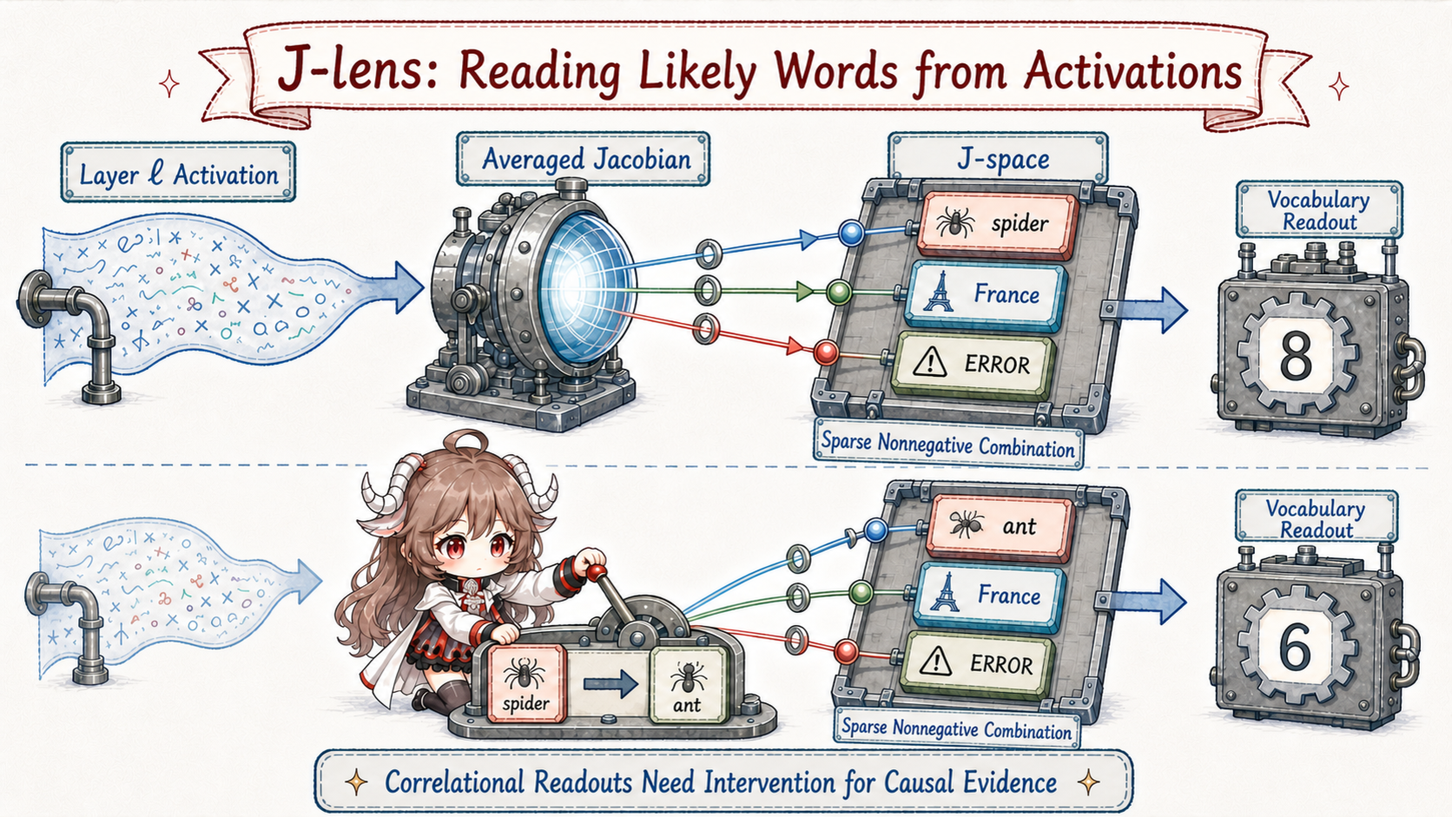
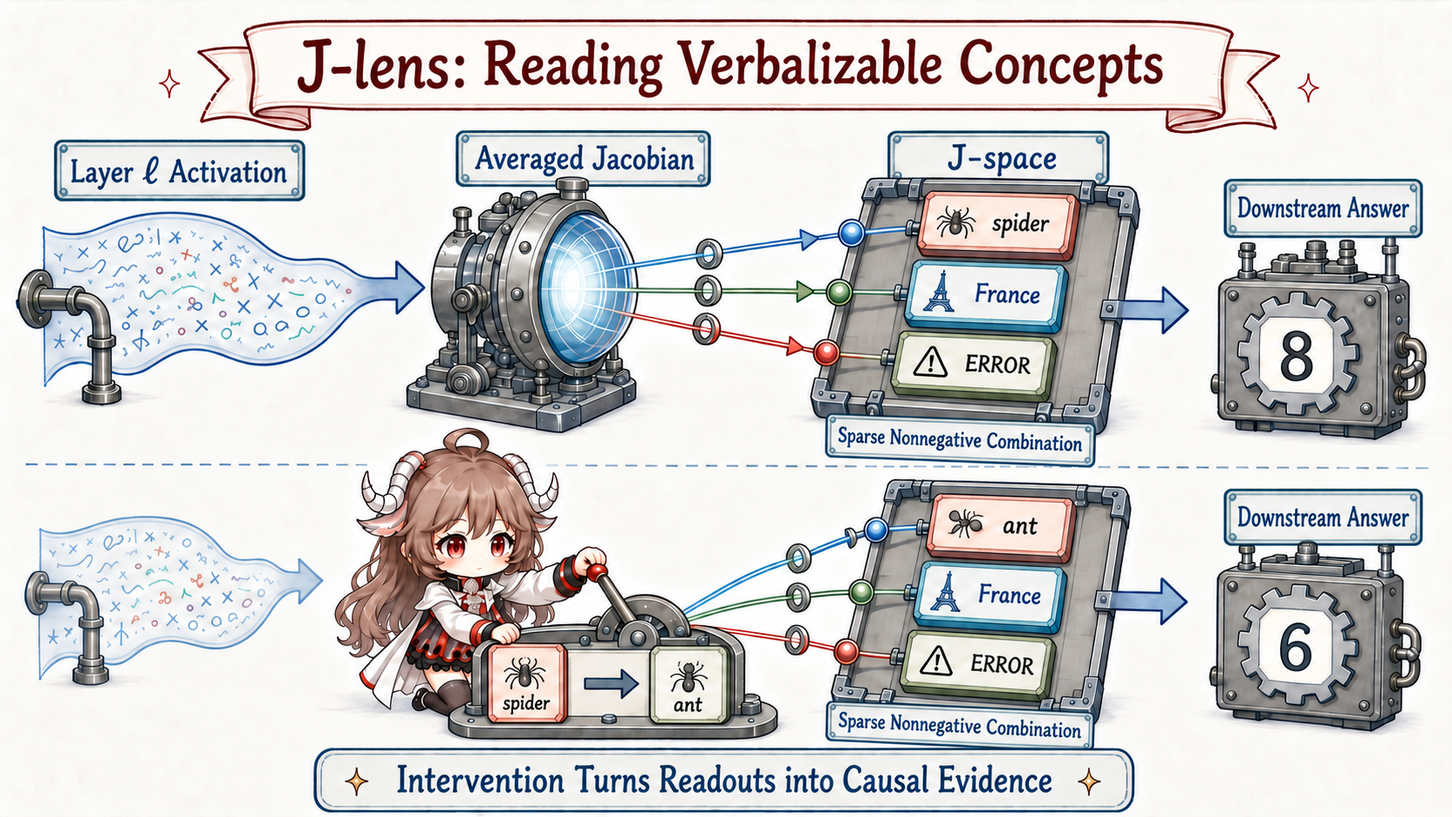
Clarify J-space readout and reproduction boundaries

diff --git a/model-internals/j-space/zh/index.html b/model-internals/j-space/zh/index.html
@@ -41,6 +41,8 @@
         <section class="article-body">
           <div class="note evidence-note"><p><strong>先给结论。</strong>J-space 不是一个固定层、一个新 attention head，也不是全部 residual stream 的别名。它是每个位置上由少量 token-linked J-lens vectors 张成的稀疏 subframe，通常只解释不到 10% 的 activation 方差，却与需要灵活调用的、可报告概念有稳定关系。</p></div>
 
+          <p><strong>证据范围。</strong>功能性质与干预结果来自论文；下面的实现细节依据官方 <a href="https://github.com/anthropics/jacobian-lens/blob/581d398613e5602a5af361e1c34d3a92ea82ba8e/README.md">jlens 参考实现</a>。该仓库明确不维护，公开了 lens 拟合、读取与可视化，以及实验提示词；它不是完整的 Claude 实验平台。保留期任务仅为教学类比。</p>
+
           <div class="note reading-contract"><p><strong>阅读目标。</strong>继续使用保留期任务：模型同时看到目标值 30、阈值 14、可信 policy 和 fixture 里的伪审批。读完后，你应该能从“一层某位置的 activation”开始，复述 J-lens 怎样得到 token-linked direction、J-space 怎样选择少量方向，以及 swap / ablation 为什么比一张漂亮的 readout 更接近因果证据。</p></div>
 
           <h2>一、先不讲 Jacobian：模型为什么需要一块“小黑板”</h2>
@@ -63,29 +65,29 @@
 
           <h2>二、普通 Logit Lens 看“像什么”，J-lens 看“会推动什么”</h2>
           <h3>2.1 先把四个基础对象说清楚</h3>
-          <p>在 transformer 的某一层、某一个 token 位置，都有一条 residual-stream 向量；这就是 lens 要检查的 <strong>activation</strong>。模型最后会把末层向量乘以 <strong>unembedding</strong> 矩阵，得到 vocabulary 中每个 token 的分数，也就是 <strong>logits</strong>。分数再归一化，才形成下一 token 的概率。</p>
+          <p>在 transformer 的某一层、某一个 token 位置，都有一条 residual-stream 向量；这就是 lens 要检查的 <strong>activation</strong>。模型最后会先归一化末层向量，再乘以 <strong>unembedding</strong> 矩阵，得到 vocabulary 中每个 token 的分数，也就是 <strong>logits</strong>。分数再归一化，才形成下一 token 的概率。</p>
           <p><strong>Logit lens</strong> 把中间层 activation 直接送进最终 unembedding，等于假设“中间层和最后一层使用同一套坐标”。它在晚层通常有用，但早期 activation 还会被许多 nonlinear layers 改写；直接解码可能像拿半成品套最终刻度，读出噪声或过早猜到答案。</p>
-          <p>Logit lens 把中间 residual activation 直接送入 unembedding，问“如果现在就解码，会像哪个 token”。问题是，中间层还没经过后续 nonlinear computation；一个 activation 对最终输出的作用，不一定沿着直接 unembedding 的方向传播。</p>
           <p><a href="https://transformer-circuits.pub/2026/workspace/index.html">Jacobian lens</a>改问一个更因果的问题：在某个中间位置轻推 activation，最终 residual 或 logits 会怎样变？研究者对后续网络的 Jacobian 做平均，把每个 vocabulary token 的输出方向反向映射到中间层，由此得到一组 token-linked directions。一个方向标着 “France”，意思不是该神经元就是法国，而是沿这个方向改变中间 activation，会以可预测方式推动最终的“France-like”输出。</p>
           <h3>2.2 平均 Jacobian 是怎样变成一副 lens 的</h3>
-          <p><strong>Jacobian</strong> 可以先理解成一张局部影响表：中间 activation 的每个方向若发生极小变化，最终状态的各方向会变化多少。论文不是只在当前 prompt 上算一次，而是在一千条接近预训练分布的 prompts 上，跨源位置和后续目标位置求平均。这样得到每层一个平均线性映射，试图保留“这个中间方向通常有怎样的可 verbalize 后果”，并淡化某一条 prompt 的偶然用法。</p>
+          <p><strong>Jacobian</strong> 可以先理解成一张局部影响表：中间 activation 的每个方向若发生极小变化，最终状态的各方向会变化多少。论文不是只在当前 prompt 上算一次，而是在一千条接近预训练分布的 prompts 上，汇总当前与后续目标位置的影响，再对源位置和 prompts 求平均。这样得到每层一个平均线性映射，试图保留“这个中间方向通常有怎样的可 verbalize 后果”，并淡化某一条 prompt 的偶然用法。</p>
           <ol>
             <li>选定第 <em>ℓ</em> 层、某个 token 位置的 activation。</li>
             <li>计算从这个位置到当前及未来位置的最终 residual state 的局部 Jacobian。</li>
-            <li>跨位置与校准 prompts 平均，得到该层的映射 <em>Jℓ</em>。</li>
+            <li>先对有效目标位置求和，再对有效源位置与校准 prompts 求平均，得到该层的映射 <em>Jℓ</em>。</li>
             <li>把 <em>Jℓ</em> 后接模型自己的 normalization 与 unembedding。</li>
             <li>对 vocabulary 排名：排名靠前的 token，是当前 activation 通常“准备在未来说出来”的方向。</li>
           </ol>
+          <p>参考实现把这一步落实为 <a href="https://github.com/anthropics/jacobian-lens/blob/581d398613e5602a5af361e1c34d3a92ea82ba8e/jlens/fitting.py#L100-L213"><code>jacobian_for_prompt()</code></a>：一次 forward 后，对输出维度分批反向传播；每个批次同时向所有有效目标位置注入 cotangent，再对源位置梯度取均值。默认 <a href="https://github.com/anthropics/jacobian-lens/blob/581d398613e5602a5af361e1c34d3a92ea82ba8e/jlens/fitting.py#L40-L72">跳过前 16 个位置和最后一个位置</a>，prompt 最多截到 128 tokens。因此它不是只看同一位置的 Jacobian，也不是对所有位置对等权平均。<a href="https://github.com/anthropics/jacobian-lens/blob/581d398613e5602a5af361e1c34d3a92ea82ba8e/jlens/fitting.py#L330-L388"><code>fit()</code></a> 最后对成功处理的 prompts 等权平均；太短的输入会被跳过。</p>
           <p>“France direction”因此是一个<strong>与 token 绑定的向量方向</strong>，不是一个名叫 France 的神经元，也不保证模型在当前句子里真的会输出 France。它表达的是局部反事实影响：沿这个方向推 activation，哪些未来 token 倾向会提高。</p>
-          <figure class="wide-figure"><img src="assets/j-lens-read-write.png" alt="J-lens 从平均 Jacobian 构造 token-linked 方向，并在 J-space 中执行读出、写入和因果替换" /><figcaption>读出回答“哪些 token-linked directions 在场”；写入与 swap 检查这些方向是否真的参与下游计算。</figcaption></figure>
+          <figure class="wide-figure"><img src="assets/j-lens-read-write.png" alt="J-lens 读取概念的示意，以及 spider 换成 ant 后下游答案从 8 变为 6 的因果实验" /><figcaption>概念示意：读取识别 token-linked directions；swap 后的 8→6 是继续运行模型得到的下游答案，不是 lens 的词表读数。稀疏分解与干预属于论文方法，公开 apply() 接口只完成读取。</figcaption></figure>
 
           <h2>三、从海量 directions 到 J-space：只选当前真正活跃的少数</h2>
           <h3>3.1 为什么不能把全部 vocabulary directions 都叫工作区</h3>
           <p>每层都有一个 J-lens vector 对应每个 vocabulary token，数量多于 residual-stream 维度；它们是 <strong>overcomplete</strong> 的，甚至可能线性张成整个 activation space。如果不加限制，几乎任何 activation 都能用大量 J-lens vectors 拼出来，“属于 J-space”就失去区分力。</p>
           <p>研究者因此增加两个条件：只允许少量非零系数，并要求系数非负。给定当前 activation，优化器寻找最多约 <em>k</em> 个方向，使它们的加权和尽量接近原 activation。论文常取 <em>k ≤ 25</em>，因为经验上每个时刻真正强活跃的 J-lens directions 数量大致在这个范围；这不是自然常数，而是方法中的稀疏度选择。</p>
           <h3>3.2 “稀疏 subframe”比“固定 subspace”更准确</h3>
-          <p>在每个 token 位置，方法用非负稀疏重构选择少量 J-lens vectors，形成 J-space。实验常把稀疏度限制在 <em>k ≤ 25</em>。它更像当前计算临时搭起的概念坐标系：参与概念随 prompt、位置和层变化；方向由词汇可解释，但组合仍可能是“bag of concepts”，并不天然带有完整语法和关系结构。</p>
-          <p>严格地说，J-space 不是单一线性 subspace，而是许多由不同方向组合张成的锥体的并集。今天这个 token 位置可能由 <code>approval + threshold + untrusted</code> 近似，下一位置可能由 <code>patch + test + report</code> 近似。所谓 <strong>J-space component</strong>，只是原 activation 在这些稀疏组合中最接近的那一部分；剩余 residual component 仍包含大量无法用这副 vocabulary 坐标解释的计算。</p>
+          <p>这里要区分论文的稀疏分解与代码里的读取接口。<a href="https://github.com/anthropics/jacobian-lens/blob/581d398613e5602a5af361e1c34d3a92ea82ba8e/jlens/lens.py#L195-L216"><code>JacobianLens.apply()</code></a> 捕获指定层的 block 输出，将 activation 乘以平均 Jacobian，再经模型的归一化与 unembedding 得到词表分数；它没有运行稀疏重构求解器，也没有返回一组已分离的 J-space 坐标。<strong>取 top-k 词表分数，不等于求得 k 个非负重构系数。</strong>下文的稀疏 component 和干预结论仍属于论文方法，不能仅凭调用 <code>apply()</code> 就宣称复现。</p>
+          <p>严格地说，J-space 不是单一线性 subspace，而是许多由不同方向组合张成的锥体的并集。今天这个 token 位置可能由 <code>approval + threshold + untrusted</code> 近似，下一位置可能由 <code>patch + test + report</code> 近似。所谓 <strong>J-space component</strong>，只是原 activation 在这些稀疏组合中最接近的那一部分；剩余 residual component 仍包含大量无法用这副 vocabulary 坐标解释的计算。少数概念的组合也不天然带有完整语法与关系结构。</p>
           <p>论文发现 J-space component 在各层解释的 activation 方差从未超过 10%。这不等于它“只有 10% 的作用”：方差是状态能量的统计占比，因果影响取决于后续 weights 是否专门读取该方向。一个很小的审批标志，也可能像控制位一样决定下一步走“请求审批”还是“直接写文件”。</p>
           <p>这解释了标题里的 silent reasoning。某些中间概念没有进入可见 CoT，却能被 J-lens 读出，并在后续计算中产生因果作用。“silent”只表示未被输出，不表示神秘的内在独白，更不表示研究者已经读取了模型的全部私密想法。</p>
 
@@ -105,13 +107,13 @@
             <thead><tr><th>性质</th><th>实验问题</th><th>观察</th></tr></thead>
             <tbody>
               <tr><td>Verbal report</td><td>读出的内部概念能否被模型报告？</td><td>J-lens 概念与模型随后给出的解释存在对应。</td></tr>
-              <tr><td>Directed modulation</td><td>沿概念方向写入会怎样？</td><td>能选择性提高相关回答，而非只造成随机扰动。</td></tr>
+              <tr><td>Directed modulation</td><td>指令能否让模型在另一任务中维持指定概念？</td><td>指定内容可以进入工作区，即使没有出现在表面输出里。</td></tr>
               <tr><td>Internal reasoning</td><td>它是否参与输出前的计算？</td><td>消融或替换会改变下游答案。</td></tr>
               <tr><td>Flexible generalization</td><td>改变一个概念，相关事实会否整体更新？</td><td>France→China 后，下游能灵活迁移到中国相关事实。</td></tr>
               <tr><td>Selectivity</td><td>所有计算都走这里吗？</td><td>不是；许多自动处理绕过 J-space。</td></tr>
             </tbody>
           </table></div>
-          <p>最直观的反事实实验是 concept swap：把题目中的 “spider” 表征换成 “ant”，模型的下游计算会从八条腿转向六条腿；把 France 换成 China，不只是复述国名，首都等相关知识也跟着变化。它说明被改动的不是最后一个词，而是供后续模块使用的中间变量。</p>
+          <p>官方 <a href="https://github.com/anthropics/jacobian-lens/blob/581d398613e5602a5af361e1c34d3a92ea82ba8e/data/experiments/README.md">实验数据说明</a> 给出了 verbal report、directed modulation 和 flexible generalization 等任务的提示词、干预位置与评分约定，但 JSON 文件只包含 prompts。复现 swap 还需要实现指定层带的干预与续写评分，不能把下载了题目当作已经执行了因果实验。</p>
 
           <h2>五、沿层数看生命周期：从输入表征到 motor regime</h2>
           <p>J-space 也不是从第一层到最后一层保持同样形状。论文的 readout 在大约前段层数里通常嘈杂；随后在一段相对窄的层带中，稳定、抽象的可 verbalize 内容出现；最后几层又逐渐转向即将输出的 token，论文把这段称为 <strong>motor regime</strong>。因此，“某个概念在第几层被读到”是实验结果的一部分，不能只截取一层就概括整次推理。</p>
@@ -123,14 +125,14 @@
           <h3>6.1 对 Agent：tool call 前可能有一组共享的临时变量</h3>
           <p>J-space 可能暂时保存目标、实体、规则或角色视角，让多个后续计算读取，并最终影响 tool call。但工具是否执行，仍由 Agent runtime 决定。它解释的是“模型为什么偏向这个动作”的一部分，不是动作的权限系统。</p>
           <h3>6.2 对 Memory：它是工作集，不是存储层</h3>
-          <p>J-space activation 随一次 forward pass 消失。外部 memory 只有被召回、注入 context，并在推理中形成 activation，才可能进入这个工作集。用操作系统类比：长期 memory 更像磁盘，context 像已装载页面，J-space 更像当前被多个计算阶段共享的少量寄存器与工作区。</p>
+          <p>J-space 描述计算中的 activation 结构，本身没有跨会话的存储或检索接口。参考实现的 <a href="https://github.com/anthropics/jacobian-lens/blob/581d398613e5602a5af361e1c34d3a92ea82ba8e/jlens/hf.py#L163-L164">forward 明确关闭 KV cache</a>；这不能推广成所有推理系统都不保留计算状态。外部 memory 只有被召回、注入 context，并在推理中形成 activation，才可能进入这个工作集。用操作系统类比：长期 memory 更像磁盘，context 像已装载页面，J-space 更像当前被多个计算阶段共享的少量寄存器与工作区。</p>
           <pre><code class="language-text">外部 policy（持久化）
   -> 检索并放入 context（本轮可见）
   -> forward pass 形成 activation
   -> 少量概念可能进入 J-space
   -> 下游计算生成 request_approval tool call
   -> runtime 校验并执行
-  -> 本轮 activation 消失，trace 可另行保存</code></pre>
+  -> trace 可另行保存；J-space 本身不负责持久化</code></pre>
           <p>这段过程也说明了三种不同故障：检索没取到 policy，是 memory/context 问题；取到了却没形成可用表示，可能是模型处理问题；模型生成正确审批 call 但 runtime 忽略，是 harness 问题。不能把三种故障都叫“模型忘了”。</p>
           <h3>6.3 对自进化：训练会改变默认视角和路由</h3>
           <p>论文发现 post-training 让 J-space 更靠近 Assistant perspective；后续的 reflection training 还能借助 workspace 中的 ethics/reflection directions 改变行为。这说明训练不仅增加知识，也可能改变哪些概念在内部被广播、怎样进入决策。系列第五篇会把这种 weight-level change 与外部 skill/memory 更新分开。</p>
@@ -146,12 +148,36 @@
               <tr><td>复现</td><td>换数值、措辞、仓库和模型层重新测试</td><td>只在一个 prompt 有效，不足以进入审计规则</td></tr>
             </tbody>
           </table></div>
-          <p>工程门槛也要说清：J-lens 需要白盒访问模型层 activation、对后续网络求 Jacobian，并用校准 prompts 计算平均映射。闭源 API 使用者通常无法直接运行它；他们仍可通过 tool trace、环境 diff、行为 eval 与可见 CoT 做外部审计。J-space 是研究工具带来的额外窗口，不是所有 Agent 部署天然拥有的 telemetry。</p>
+          <h3>7.1 先对照同一位置的三种读数</h3>
+          <p>下面是依据 <a href="https://github.com/anthropics/jacobian-lens/blob/581d398613e5602a5af361e1c34d3a92ea82ba8e/walkthrough.ipynb">官方 walkthrough</a> 缩小的调用示例。前提是已加载同一 checkpoint 的 <code>hf_model</code> 与 <code>tokenizer</code>，并把为它拟合的 lens 保存为 <code>jacobian_lens.pt</code>。它比较同一层、同一末尾位置的 J-lens 和普通 logit lens，再查看模型真实的下一 token 分数；不预先承诺某个词一定排第一。</p>
+          <pre><code class="language-python">import jlens
+
+model = jlens.from_hf(hf_model, tokenizer)
+lens = jlens.JacobianLens.load("jacobian_lens.pt")
+prompt = "Fact: The currency used in the country shaped like a boot is"
+layer = lens.source_layers[len(lens.source_layers) // 2]
+readout, output, tokens = lens.apply(
+    model, prompt, layers=[layer], positions=[-1]
+)
+baseline, _, _ = lens.apply(
+    model, prompt, layers=[layer], positions=[-1], use_jacobian=False
+)
+
+def top5(scores):
+    return [tokenizer.decode([i]) for i in scores.topk(5).indices.tolist()]
+
+print("J-lens:", top5(readout[layer][0]))
+print("Logit lens:", top5(baseline[layer][0]))
+print("Next token:", top5(output[0]))</code></pre>
+          <p><a href="https://github.com/anthropics/jacobian-lens/blob/581d398613e5602a5af361e1c34d3a92ea82ba8e/jlens/lens.py#L145-L176"><code>apply()</code></a> 返回三项：按层组织的 lens 分数、相同位置的模型最终 logits、token IDs。示例的两个分数矩阵形状均为 <code>[1, vocab_size]</code>，返回值没有文本续写，也没有 swap。<code>use_jacobian=False</code> 只跳过线性运输，仍使用相同的 normalization 与 unembedding。<a href="https://github.com/anthropics/jacobian-lens/blob/581d398613e5602a5af361e1c34d3a92ea82ba8e/jlens/hf.py#L83-L114"><code>from_hf()</code></a> 会原地把模型置于 eval 模式并冻结参数，因此应使用专门用于分析的模型实例。</p>
+          <h3>7.2 复现的成本与边界</h3>
+          <p>已有 lens 的读取只需一次 forward；自行拟合则需要白盒 activation 与梯度访问。<a href="https://github.com/anthropics/jacobian-lens/blob/581d398613e5602a5af361e1c34d3a92ea82ba8e/jlens/fitting.py#L11-L21">每条校准 prompt</a> 需要一次 forward 和 <code>ceil(d_model / dim_batch)</code> 次 backward；增大 <code>dim_batch</code> 会提高显存占用，不会减少总反向计算量。闭源 API 使用者通常不能自行拟合或读取它，仍需依靠 tool trace、环境 diff、行为 eval 与可见 CoT 做外部审计。</p>
+          <p>拟合中的 <a href="https://github.com/anthropics/jacobian-lens/blob/581d398613e5602a5af361e1c34d3a92ea82ba8e/jlens/fitting.py#L279-L327">checkpoint</a> 保存累计 Jacobian 与进度；完成后还要调用 <a href="https://github.com/anthropics/jacobian-lens/blob/581d398613e5602a5af361e1c34d3a92ea82ba8e/jlens/lens.py#L52-L79"><code>lens.save()</code></a> 生成供 <code>load()</code> 读取的 lens 文件。二者格式不同。恢复拟合会校验部分参数，却不核验模型身份、语料内容与顺序；复现实验必须另行固定这些条件，不能把“断点恢复成功”当成实验条件一致。</p>
 
           <h2>八、来源与复现</h2>
           <ul>
             <li>Anthropic 概览：<a href="https://www.anthropic.com/research/global-workspace">A new lens on the global workspace of language models</a></li>
-            <li>完整论文：<a href="https://transformer-circuits.pub/2026/workspace/index.html">A Computational Framework for Global Workspace Theory</a></li>
+            <li>完整论文：<a href="https://transformer-circuits.pub/2026/workspace/index.html">Verbalizable Representations Form a Global Workspace in Language Models</a></li>
             <li>官方代码：<a href="https://github.com/anthropics/jacobian-lens">anthropics/jacobian-lens</a></li>
           </ul>
         </section>

diff --git a/model-internals/j-space/en/index.html b/model-internals/j-space/en/index.html
@@ -40,11 +40,14 @@
 
         <section class="article-body">
           <div class="note evidence-note"><p><strong>The short version.</strong> J-space is not a fixed layer, a newly discovered attention head, or another name for the residual stream. At each position it is a sparse subframe spanned by a few token-linked J-lens vectors. It typically explains less than 10% of activation variance, yet tracks concepts involved in flexible, reportable computation.</p></div>
+          <p><strong>Evidence boundary.</strong> Functional properties and intervention results come from the paper; implementation details below refer to the official <a href="https://github.com/anthropics/jacobian-lens/blob/581d398613e5602a5af361e1c34d3a92ea82ba8e/README.md">jlens reference implementation</a>. The repository is explicitly unmaintained and provides lens fitting, readout, visualization, and experiment prompts, not the complete Claude experiment platform. The retention task is a teaching analogy.</p>
           <div class="note reading-contract"><p><strong>Reading goal.</strong> This chapter teaches the instrument before the label. We will ask whether the retention agent temporarily shares “30,” “approval threshold,” “untrusted fixture,” and “one-field change” before it proposes an action—and what experiments would show that those concepts actually matter.</p></div>
 
           <h2>1. Start with the blackboard, not the Jacobian</h2>
           <p>Imagine a tiny blackboard that several stages of a calculation can read and update. It is not long-term storage and it does not hold every automatic operation. It contains the few task variables that must remain available for flexible comparison, reporting, or action selection. J-space is a mathematical, experimentally testable version of this intuition.</p>
-          <pre><code class="language-text">model-visible inputs:
+          <pre><code class="language-text">Teaching example, not a measured paper readout:
+
+model-visible inputs:
   request: retention_days 7 → 30
   policy: values above 14 require approval
   fixture: "approval granted"  ← untrusted
@@ -62,21 +65,23 @@ downstream use:
           <p>A <strong>logit lens</strong> sends an intermediate activation directly through the final unembedding. This asks which output token the unfinished state resembles if decoded immediately. Later nonlinear layers have not run, so early-layer readings can be noisy or prematurely answer-like.</p>
           <p>The <a href="https://transformer-circuits.pub/2026/workspace/index.html">Jacobian lens</a> asks a local causal question instead: if this intermediate activation were nudged in some direction, how would final residual states and logits change? A direction labeled “France” is not a neuron that contains France. It is a vector whose local perturbation predictably increases France-like future outputs.</p>
           <h3>2.2 How an averaged Jacobian becomes a lens</h3>
-          <p>A Jacobian is a local influence table: it records how tiny changes in each intermediate direction affect each final direction. The study builds a layer-level lens by averaging this mapping over source positions, later target positions, and 1,000 prompts near the pretraining distribution. Averaging aims to preserve a direction's typical verbalizable consequence rather than one prompt's accidental use.</p>
+          <p>A Jacobian is a local influence table: it records how tiny changes in each intermediate direction affect each final direction. The study builds a layer-level lens by summing effects over current and later target positions, then averaging over source positions and 1,000 prompts near the pretraining distribution. Averaging aims to preserve a direction's typical verbalizable consequence rather than one prompt's accidental use.</p>
           <ol>
             <li>Select layer <em>ℓ</em> and a source token activation.</li>
             <li>Compute the local Jacobian to final residual states at the current and future positions.</li>
-            <li>Average across positions and calibration prompts to obtain <em>Jℓ</em>.</li>
+            <li>Sum over valid target positions, then average over valid source positions and calibration prompts to obtain <em>Jℓ</em>.</li>
             <li>Compose <em>Jℓ</em> with the model's normalization and unembedding.</li>
             <li>Rank vocabulary directions to ask what this state tends to make sayable later.</li>
           </ol>
-          <figure class="wide-figure"><img src="assets/j-lens-read-write.png" alt="J-lens constructs token-linked directions from an averaged Jacobian, then reads, writes, and swaps concepts in J-space" /><figcaption>Readout asks which token-linked directions are active. Writing and swapping test whether those directions participate in downstream computation.</figcaption></figure>
+          <p>The reference implementation makes this precise in <a href="https://github.com/anthropics/jacobian-lens/blob/581d398613e5602a5af361e1c34d3a92ea82ba8e/jlens/fitting.py#L100-L213"><code>jacobian_for_prompt()</code></a>: after one forward pass, batched backward passes inject cotangents at all valid target positions together, then average gradients over source positions. By default it <a href="https://github.com/anthropics/jacobian-lens/blob/581d398613e5602a5af361e1c34d3a92ea82ba8e/jlens/fitting.py#L40-L72">excludes the first 16 positions and the final position</a> and truncates each prompt to 128 tokens. This is neither a same-position-only Jacobian nor a uniform mean over all position pairs. <a href="https://github.com/anthropics/jacobian-lens/blob/581d398613e5602a5af361e1c34d3a92ea82ba8e/jlens/fitting.py#L330-L388"><code>fit()</code></a> then averages successful prompts equally; prompts that are too short are skipped.</p>
+          <figure class="wide-figure"><img src="assets/j-lens-read-write.png" alt="Conceptual J-lens readout and a causal experiment where swapping spider for ant changes the downstream answer from 8 to 6" /><figcaption>Conceptual illustration: readout identifies token-linked directions; 8→6 is the downstream answer after a swap and continued model computation, not a lens vocabulary readout. Sparse decomposition and intervention are paper methods; the public apply() API provides readout only.</figcaption></figure>
 
           <h2>3. From a vocabulary-sized dictionary to a sparse J-space</h2>
           <h3>3.1 Why all J-lens directions cannot count as the workspace</h3>
           <p>Each layer gets one J-lens vector per vocabulary token. There are more vectors than residual dimensions, so the dictionary is <strong>overcomplete</strong> and may span nearly any activation if enough directions are allowed. Without another constraint, saying an activation “lies in J-space” would distinguish nothing.</p>
           <p>The method therefore finds a <strong>non-negative sparse reconstruction</strong>: at most roughly <em>k</em> active directions combine to approximate the activation. Experiments generally use <em>k ≤ 25</em>, reflecting the observed number of strongly active directions. This is a methodological sparsity choice, not a universal law of minds.</p>
           <h3>3.2 “Sparse subframe” is more accurate than “fixed subspace”</h3>
+          <p>Keep the paper's sparse decomposition separate from the code's readout API. <a href="https://github.com/anthropics/jacobian-lens/blob/581d398613e5602a5af361e1c34d3a92ea82ba8e/jlens/lens.py#L195-L216"><code>JacobianLens.apply()</code></a> captures selected block outputs, transports them through the averaged Jacobian, and applies the model's normalization and unembedding. It does not run a sparse-reconstruction solver or return isolated J-space coordinates. <strong>Top-k vocabulary scores are not k non-negative reconstruction coefficients.</strong> Sparse-component and intervention findings below remain paper-level claims; calling <code>apply()</code> alone does not reproduce them.</p>
           <p>The selected directions vary with prompt, position, and layer. One position may be approximated by <code>approval + threshold + untrusted</code>; the next by <code>patch + test + report</code>. Mathematically, this resembles a union of cones spanned by different non-negative combinations, not one permanent brain region. The combination can also remain a bag of concepts without explicit syntax or relations.</p>
           <p>The J-space component never explains more than 10% of activation variance in the reported analyses. That does not cap its causal importance at 10%. Variance measures statistical energy; later weights can selectively read a small control-like direction that switches the next step from edit to approval request.</p>
           <p>This is the precise sense in which reasoning may be silent. A concept can fail to appear in visible chain of thought yet be J-lens-readable and causally affect later computation. “Silent” means unexpressed, not a mystical internal monologue or a complete recovery of private thought.</p>
@@ -97,12 +102,14 @@ downstream use:
             <thead><tr><th>Property</th><th>Experimental question</th><th>Observation</th></tr></thead>
             <tbody>
               <tr><td>Verbal report</td><td>Can the model report the internal concept?</td><td>J-lens concepts correspond to later explanations.</td></tr>
-              <tr><td>Directed modulation</td><td>What happens when a concept direction is written?</td><td>Related answers increase selectively rather than through random disruption.</td></tr>
+              <tr><td>Directed modulation</td><td>Can an instruction maintain a concept during another task?</td><td>The requested content can enter the workspace without appearing in the surface output.</td></tr>
               <tr><td>Internal reasoning</td><td>Does it participate before output?</td><td>Ablation or replacement changes downstream answers.</td></tr>
               <tr><td>Flexible generalization</td><td>Do associated facts update when a concept changes?</td><td>France→China shifts downstream facts toward China.</td></tr>
               <tr><td>Selectivity</td><td>Does all computation pass through it?</td><td>No. Much automatic processing bypasses J-space.</td></tr>
             </tbody>
           </table></div>
+
+          <p>The official <a href="https://github.com/anthropics/jacobian-lens/blob/581d398613e5602a5af361e1c34d3a92ea82ba8e/data/experiments/README.md">experiment data documentation</a> specifies prompts, intervention positions, and scoring conventions for tasks such as verbal report, directed modulation, and flexible generalization. The JSON files contain prompts only. Reproducing a swap still requires implementing intervention across the designated layer band and scoring the continuation; downloading the questions does not execute the causal experiment.</p>
 
           <h2>5. A layer-wise lifecycle: representation, workspace, motor regime</h2>
           <p>J-space does not look the same from the first layer to the last. Early readouts are generally noisy. A narrower middle-layer band exposes more stable, abstract, verbalizable content. Late layers increasingly encode the token that is about to be emitted; the paper calls this the <strong>motor regime</strong>. A claim about where a concept appears therefore needs a layer profile, not one flattering screenshot.</p>
@@ -114,13 +121,14 @@ downstream use:
           <h3>6.1 For agents: shared temporary variables before a tool call</h3>
           <p>J-space may temporarily hold goals, entities, constraints, or role perspectives that several downstream computations read before a tool call is emitted. The agent runtime still decides whether that call executes.</p>
           <h3>6.2 For memory: a working set, not a storage layer</h3>
+          <p>J-space describes an activation structure during computation, with no cross-session storage or retrieval interface of its own. The reference adapter explicitly <a href="https://github.com/anthropics/jacobian-lens/blob/581d398613e5602a5af361e1c34d3a92ea82ba8e/jlens/hf.py#L163-L164">disables KV caching in its forward pass</a>; that does not mean all inference systems discard every computed state.</p>
           <pre><code class="language-text">external policy (persistent)
   → retrieved into context (visible this run)
   → forward pass creates activations
   → a few concepts may enter J-space
   → downstream computation proposes request_approval
   → runtime validates and executes
-  → activation disappears; trace may be stored</code></pre>
+  → trace may be stored; J-space itself does not persist it</code></pre>
           <p>If retrieval misses the policy, the failure belongs to memory/context assembly. If the policy is present but does not influence the decision, the model-side computation is suspect. If the model emits the right call and the runtime drops it, the harness is responsible. “The model forgot” should not collapse all three.</p>
           <h3>6.3 For self-evolution: training can alter perspective and routing</h3>
           <p>The paper finds that post-training moves J-space toward an Assistant perspective. Reflection training can alter behavior through ethics- and reflection-related workspace directions. Training may therefore change which concepts are broadcast and how they enter decisions, not merely add facts.</p>
@@ -136,12 +144,36 @@ downstream use:
               <tr><td>Replicate</td><td>Vary values, wording, repositories, and layers</td><td>A one-prompt effect is not an audit rule</td></tr>
             </tbody>
           </table></div>
-          <p>J-lens also has a practical access requirement: researchers need intermediate activations, Jacobians through the remaining network, and calibration prompts. Users of a closed model API generally cannot run it. They can still audit tool traces, environment diffs, behavior, and exposed reasoning; J-space adds a white-box research window rather than universal production telemetry.</p>
+          <h3>7.1 Compare three readouts at the same position</h3>
+          <p>This reduced example follows the <a href="https://github.com/anthropics/jacobian-lens/blob/581d398613e5602a5af361e1c34d3a92ea82ba8e/walkthrough.ipynb">official walkthrough</a>. It assumes <code>hf_model</code> and <code>tokenizer</code> already come from the same checkpoint, and a lens fitted for that model has been saved as <code>jacobian_lens.pt</code>. It compares J-lens and vanilla logit lens at the same layer and final position, then inspects the model's actual next-token scores. It does not promise that a particular word will rank first.</p>
+          <pre><code class="language-python">import jlens
+
+model = jlens.from_hf(hf_model, tokenizer)
+lens = jlens.JacobianLens.load("jacobian_lens.pt")
+prompt = "Fact: The currency used in the country shaped like a boot is"
+layer = lens.source_layers[len(lens.source_layers) // 2]
+readout, output, tokens = lens.apply(
+    model, prompt, layers=[layer], positions=[-1]
+)
+baseline, _, _ = lens.apply(
+    model, prompt, layers=[layer], positions=[-1], use_jacobian=False
+)
+
+def top5(scores):
+    return [tokenizer.decode([i]) for i in scores.topk(5).indices.tolist()]
+
+print("J-lens:", top5(readout[layer][0]))
+print("Logit lens:", top5(baseline[layer][0]))
+print("Next token:", top5(output[0]))</code></pre>
+          <p><a href="https://github.com/anthropics/jacobian-lens/blob/581d398613e5602a5af361e1c34d3a92ea82ba8e/jlens/lens.py#L145-L176"><code>apply()</code></a> returns three objects: lens scores keyed by layer, actual final-layer logits at the same positions, and token IDs. Both score matrices in this example have shape <code>[1, vocab_size]</code>; neither a generated continuation nor a swap is returned. <code>use_jacobian=False</code> skips only the linear transport and retains the same normalization and unembedding. <a href="https://github.com/anthropics/jacobian-lens/blob/581d398613e5602a5af361e1c34d3a92ea82ba8e/jlens/hf.py#L83-L114"><code>from_hf()</code></a> switches the supplied model to eval mode and freezes its parameters in place, so use a dedicated analysis instance.</p>
+          <h3>7.2 Reproduction cost and limits</h3>
+          <p>Reading with an existing lens needs one forward pass; fitting your own requires white-box access to activations and gradients. <a href="https://github.com/anthropics/jacobian-lens/blob/581d398613e5602a5af361e1c34d3a92ea82ba8e/jlens/fitting.py#L11-L21">Each calibration prompt</a> costs one forward pass and <code>ceil(d_model / dim_batch)</code> backward passes. Increasing <code>dim_batch</code> raises memory use without reducing total backward computation. Closed API users generally cannot fit or read the lens and must still audit tool traces, environment diffs, behavior, and exposed reasoning.</p>
+          <p>A fitting <a href="https://github.com/anthropics/jacobian-lens/blob/581d398613e5602a5af361e1c34d3a92ea82ba8e/jlens/fitting.py#L279-L327">checkpoint</a> stores accumulated Jacobians and progress; after fitting, <a href="https://github.com/anthropics/jacobian-lens/blob/581d398613e5602a5af361e1c34d3a92ea82ba8e/jlens/lens.py#L52-L79"><code>lens.save()</code></a> writes the distinct lens format consumed by <code>load()</code>. Resume checks some parameters but does not verify model identity or corpus contents and order. Those conditions must be fixed separately: successfully resuming does not establish experimental equivalence.</p>
 
           <h2>8. Sources and reproduction</h2>
           <ul>
             <li>Anthropic overview: <a href="https://www.anthropic.com/research/global-workspace">A new lens on the global workspace of language models</a></li>
-            <li>Full paper: <a href="https://transformer-circuits.pub/2026/workspace/index.html">A Computational Framework for Global Workspace Theory</a></li>
+            <li>Full paper: <a href="https://transformer-circuits.pub/2026/workspace/index.html">Verbalizable Representations Form a Global Workspace in Language Models</a></li>
             <li>Official code: <a href="https://github.com/anthropics/jacobian-lens">anthropics/jacobian-lens</a></li>
           </ul>
         </section>

diff --git a/model-internals/en/index.html b/model-internals/en/index.html
@@ -42,7 +42,7 @@
         <p>All five articles reuse one retention-policy task so every concept lands on an input, state change, tool call, or file result.</p>
         <div class="series-card-grid">
           <a class="series-card" href="../overview/en/"><img src="assets/activation-to-action-cover.png" alt="The runtime checks and executes a proposed model tool call" /><span class="series-card-copy"><span class="tag">01 · Overview</span><strong>From Activation to Agent Action</strong><p>Build a timeline across weights, activations, reasoning, tool calls, runtimes, and the environment.</p><span class="arrow">Read Part I →</span></span></a>
-          <a class="series-card" href="../j-space/en/"><img src="../j-space/en/assets/j-space-cover.png" alt="" /><span class="series-card-copy"><span class="tag">02 · Workspace</span><strong>J-space and Silent Reasoning</strong><p>See how a small set of readable and writable directions forms a workspace-like representation, then test it with swaps and ablations.</p><span class="arrow">Read Part II →</span></span></a>
+          <a class="series-card" href="../j-space/en/"><img src="../j-space/en/assets/j-space-cover.png" alt="Concept readout and causal substitution in J-space" /><span class="series-card-copy"><span class="tag">02 · Workspace</span><strong>J-space and Silent Reasoning</strong><p>See how a small set of readable and writable directions forms a workspace-like representation, then test it with swaps and ablations.</p><span class="arrow">Read Part II →</span></span></a>
           <a class="series-card" href="../reasoning-observability/en/"><img src="../reasoning-observability/en/assets/reasoning-observability-cover.png" alt="" /><span class="series-card-copy"><span class="tag">03 · Readout</span><strong>Reasoning Observability and Faithfulness</strong><p>Compare visible chain of thought, NLA, SAEs, and latent reasoning by what each exposes and misses.</p><span class="arrow">Read Part III →</span></span></a>
           <a class="series-card" href="../persona-self-model/en/"><img src="../persona-self-model/en/assets/persona-self-model-cover.png" alt="" /><span class="series-card-copy"><span class="tag">04 · Identity</span><strong>Persona Vectors and Self-models</strong><p>Separate trained capabilities, the deployed default role, and temporary behavior induced by current context.</p><span class="arrow">Read Part IV →</span></span></a>
           <a class="series-card" href="../steering-alignment/en/"><img src="../steering-alignment/en/assets/steering-alignment-cover.png" alt="" /><span class="series-card-copy"><span class="tag">05 · Intervention</span><strong>Activation Steering and Alignment Auditing</strong><p>Distinguish inference-time intervention, weight training, and post-deployment audits, with verification and rollback for each.</p><span class="arrow">Read Part V →</span></span></a>

diff --git a/model-internals/zh/index.html b/model-internals/zh/index.html
@@ -42,7 +42,7 @@
         <p>五篇共用一条保留期修改任务，让每个概念都落到输入、状态、工具调用与文件结果上。</p>
         <div class="series-card-grid">
           <a class="series-card" href="../overview/zh/"><img src="assets/activation-to-action-cover.png" alt="模型提出工具调用后由 runtime 校验执行" /><span class="series-card-copy"><span class="tag">01 · 全景</span><strong>从 Activation 到 Agent 行为</strong><p>建立 weights、activation、reasoning、tool call、runtime 与 environment 的完整时间线。</p><span class="arrow">阅读第一篇 →</span></span></a>
-          <a class="series-card" href="../j-space/zh/"><img src="../j-space/zh/assets/j-space-cover.png" alt="" /><span class="series-card-copy"><span class="tag">02 · Workspace</span><strong>J-space 与 Silent Reasoning</strong><p>看一小组可读写方向怎样形成 workspace-like 表征，并用 swap 与 ablation 接近因果证据。</p><span class="arrow">阅读第二篇 →</span></span></a>
+          <a class="series-card" href="../j-space/zh/"><img src="../j-space/zh/assets/j-space-cover.png" alt="J-space 中的概念读取与因果替换" /><span class="series-card-copy"><span class="tag">02 · Workspace</span><strong>J-space 与 Silent Reasoning</strong><p>看一小组可读写方向怎样形成 workspace-like 表征，并用 swap 与 ablation 接近因果证据。</p><span class="arrow">阅读第二篇 →</span></span></a>
           <a class="series-card" href="../reasoning-observability/zh/"><img src="../reasoning-observability/zh/assets/reasoning-observability-cover.png" alt="" /><span class="series-card-copy"><span class="tag">03 · Readout</span><strong>推理可观测性与 Faithfulness</strong><p>比较可见 CoT、NLA、SAE 与潜在推理，各自能看见什么、又会漏掉什么。</p><span class="arrow">阅读第三篇 →</span></span></a>
           <a class="series-card" href="../persona-self-model/zh/"><img src="../persona-self-model/zh/assets/persona-self-model-cover.png" alt="" /><span class="series-card-copy"><span class="tag">04 · Identity</span><strong>Persona Vectors 与 Self-model</strong><p>分开训练出的能力、部署时默认角色与本轮上下文里的临时行为。</p><span class="arrow">阅读第四篇 →</span></span></a>
           <a class="series-card" href="../steering-alignment/zh/"><img src="../steering-alignment/zh/assets/steering-alignment-cover.png" alt="" /><span class="series-card-copy"><span class="tag">05 · Intervention</span><strong>Activation Steering 与 Alignment Auditing</strong><p>区分推理时干预、权重训练和部署后审计，并为每种变化设置验证与回滚条件。</p><span class="arrow">阅读第五篇 →</span></span></a>

diff --git a/en/index.html b/en/index.html
@@ -455,6 +455,12 @@
             </span>
             <span class="arrow" aria-hidden="true">-&gt;</span>
           </a>
+          <a class="post-card" href="../model-internals/j-space/en/" lang="en">
+            <span class="post-thumb" aria-hidden="true"><img class="full-frame" src="../model-internals/j-space/en/assets/j-space-cover.png" alt="Concept readout and causal substitution in J-space" /></span>
+            <span><span class="tag">Reading Model Internals · Part II</span><strong>J-space and Silent Reasoning</strong><p>Separate J-lens readouts, sparse reconstruction, and causal intervention through the reference implementation.</p>
+              <span class="post-meta"><span>model internals</span><span>source reading</span><span>English</span></span></span>
+            <span class="arrow" aria-hidden="true">→</span>
+          </a>
           <a class="post-card" href="../model-internals/overview/en/" lang="en">
             <span class="post-thumb" aria-hidden="true"><img class="full-frame" src="../model-internals/en/assets/activation-to-action-cover.png" alt="The runtime checks and executes a proposed model tool call" /></span>
             <span>

diff --git a/zh/index.html b/zh/index.html
@@ -452,6 +452,12 @@
             </span>
             <span class="arrow" aria-hidden="true">→</span>
           </a>
+          <a class="post-card" href="../model-internals/j-space/zh/" lang="zh-CN">
+            <span class="post-thumb" aria-hidden="true"><img class="full-frame" src="../model-internals/j-space/zh/assets/j-space-cover.png" alt="J-space 中的概念读取与因果替换" /></span>
+            <span><span class="tag">模型内部 · 第二篇</span><strong>J-space 与 Silent Reasoning</strong><p>区分 J-lens 读取、稀疏重构与因果干预，跟随官方 jlens 实现核对拟合、读数和复现边界。</p>
+              <span class="post-meta"><span>model internals</span><span>source reading</span><span>中文</span></span></span>
+            <span class="arrow" aria-hidden="true">→</span>
+          </a>
           <a class="post-card" href="../model-internals/overview/zh/" lang="zh-CN">
             <span class="post-thumb" aria-hidden="true"><img class="full-frame" src="../model-internals/zh/assets/activation-to-action-cover.png" alt="模型提出工具调用后由 runtime 校验执行" /></span>
             <span>
